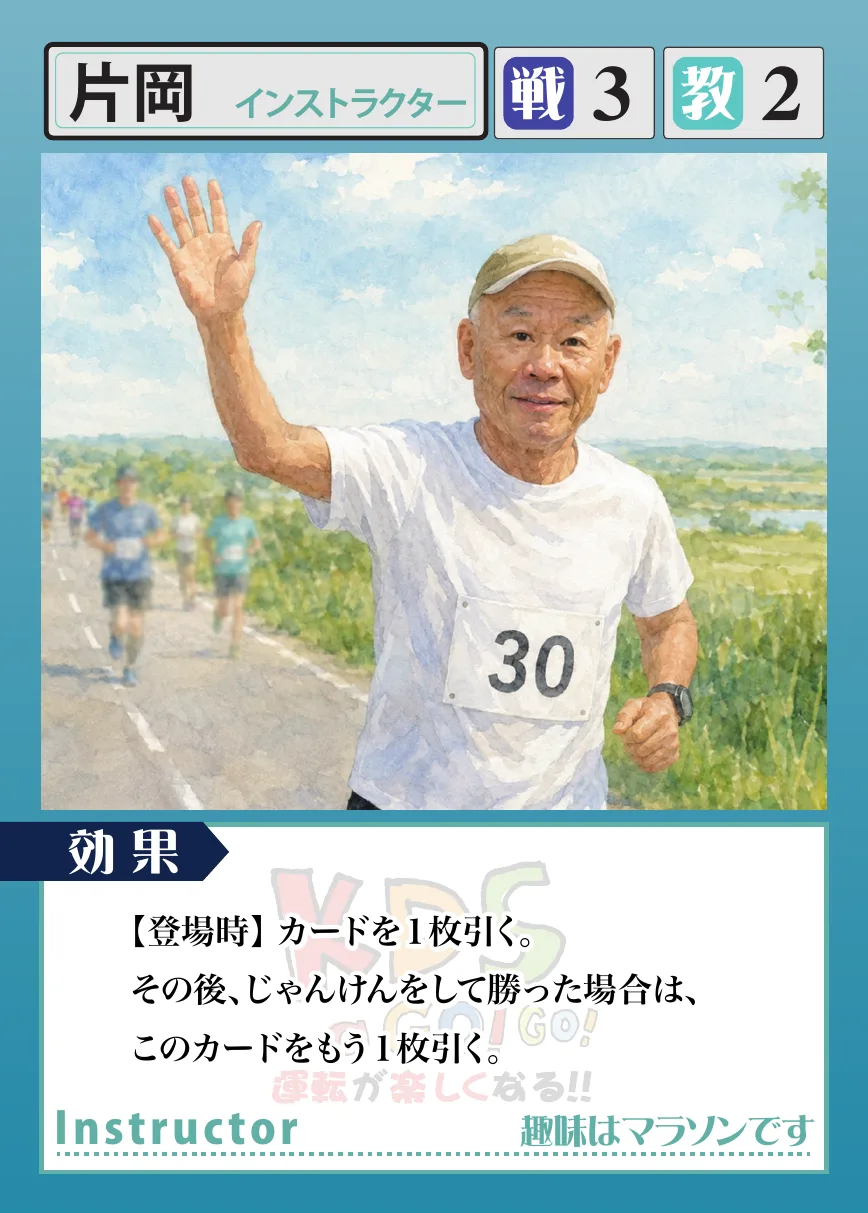
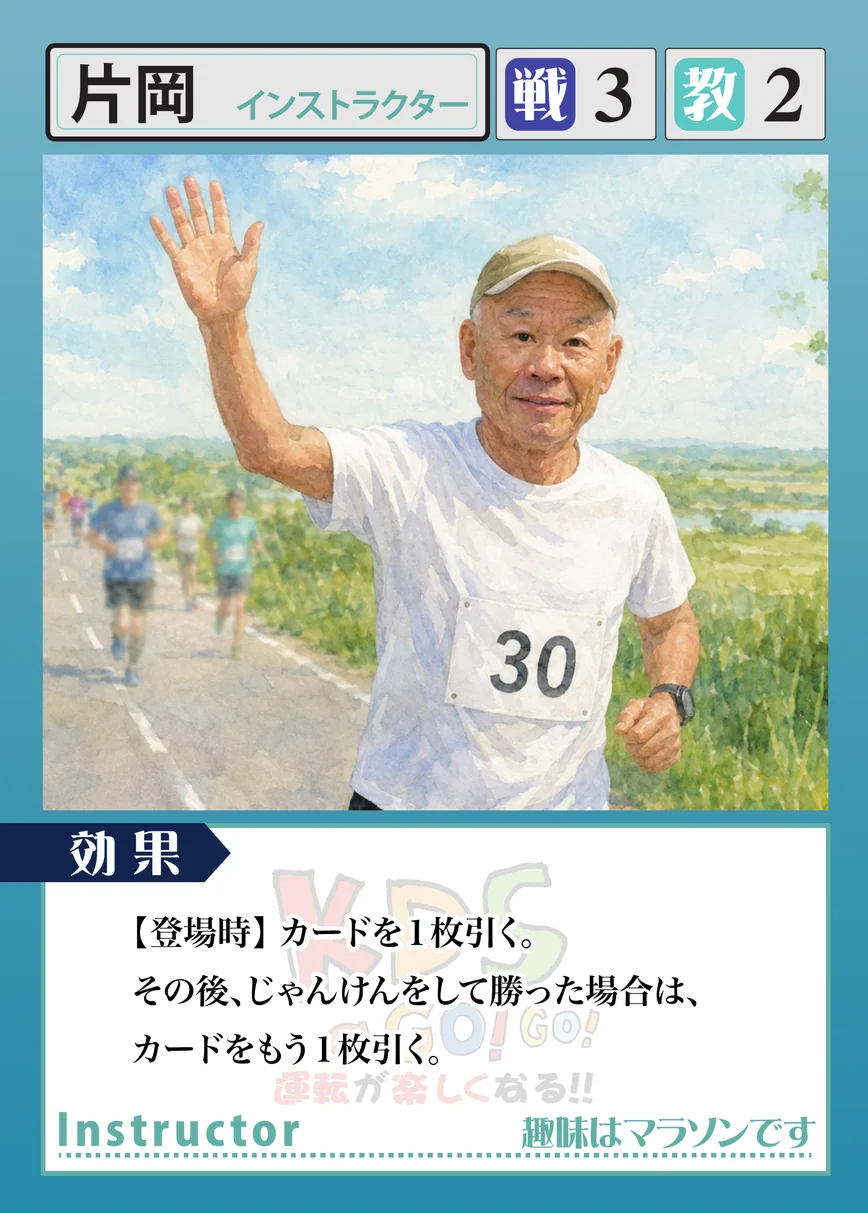
片岡のカードを新版に差し替え
- 画像を新しいPDFから切り抜き直し（150px/300px/原寸の3解像度）
- 効果文を新版に合わせて修正
  「このカードをもう1枚引く」→「カードをもう1枚引く」
  （挙動は従来どおり「カードを1枚引く」なので効果の実装は変更なし）
- 数値は変更なし（戦闘力3・教習力2）

diff --git a/src/data/cards.ts b/src/data/cards.ts
@@ -173,7 +173,7 @@ export const realCards: CardDef[] = [
   },
   {
     id: "i_kataoka", name: "片岡", type: "instructor", combat: 3, lesson: 2,
-    effectText: "【登場時】カードを1枚引く。その後、じゃんけんをして勝った場合は、このカードをもう1枚引く。",
+    effectText: "【登場時】カードを1枚引く。その後、じゃんけんをして勝った場合は、カードをもう1枚引く。",
     flavor: "趣味はマラソンです",
     effects: [{
       trigger: "onPlay",
